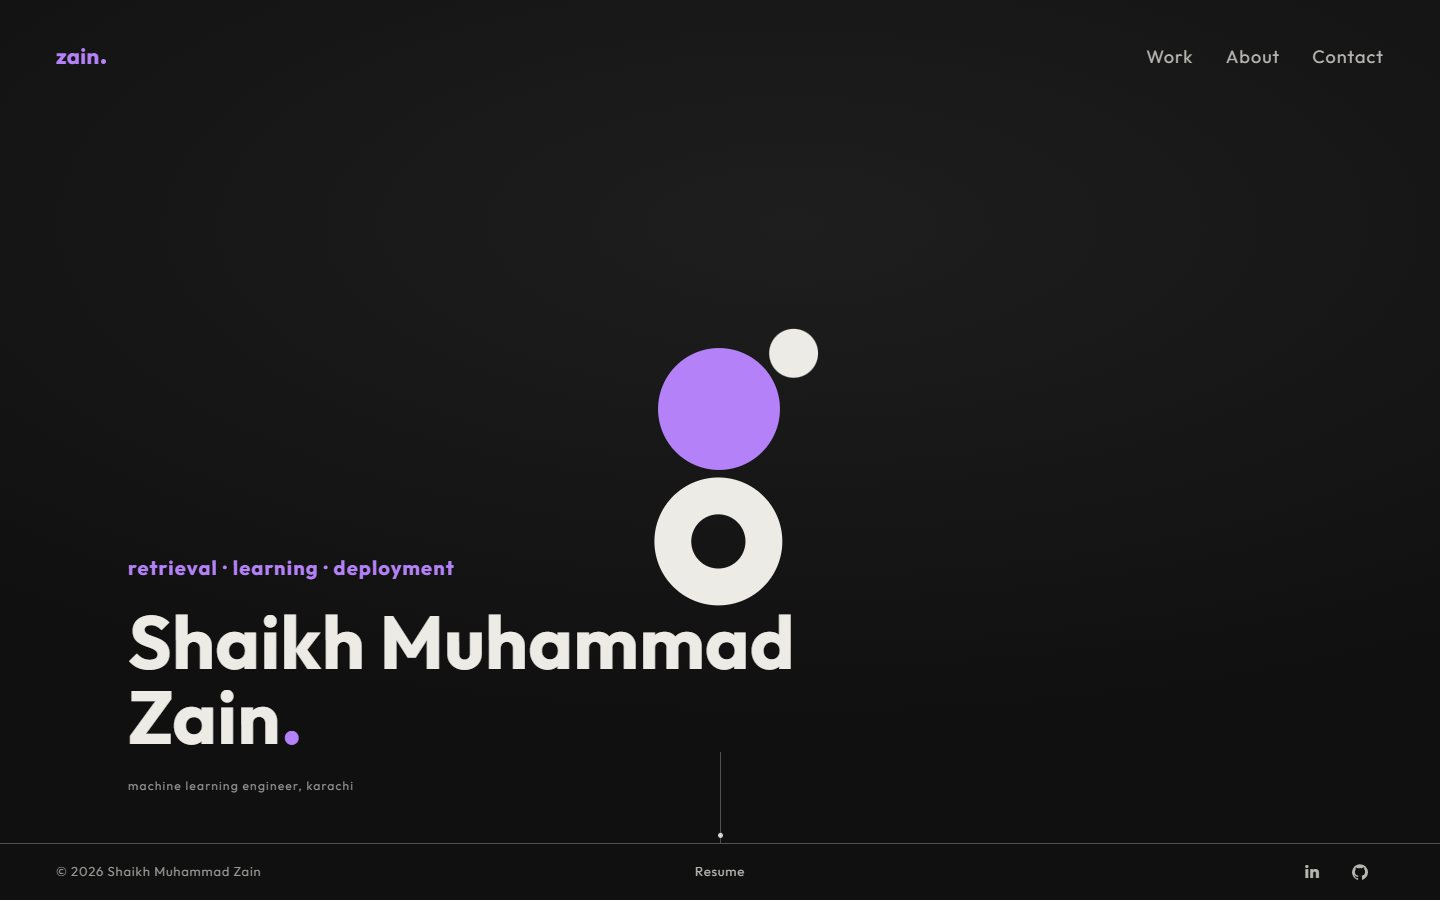
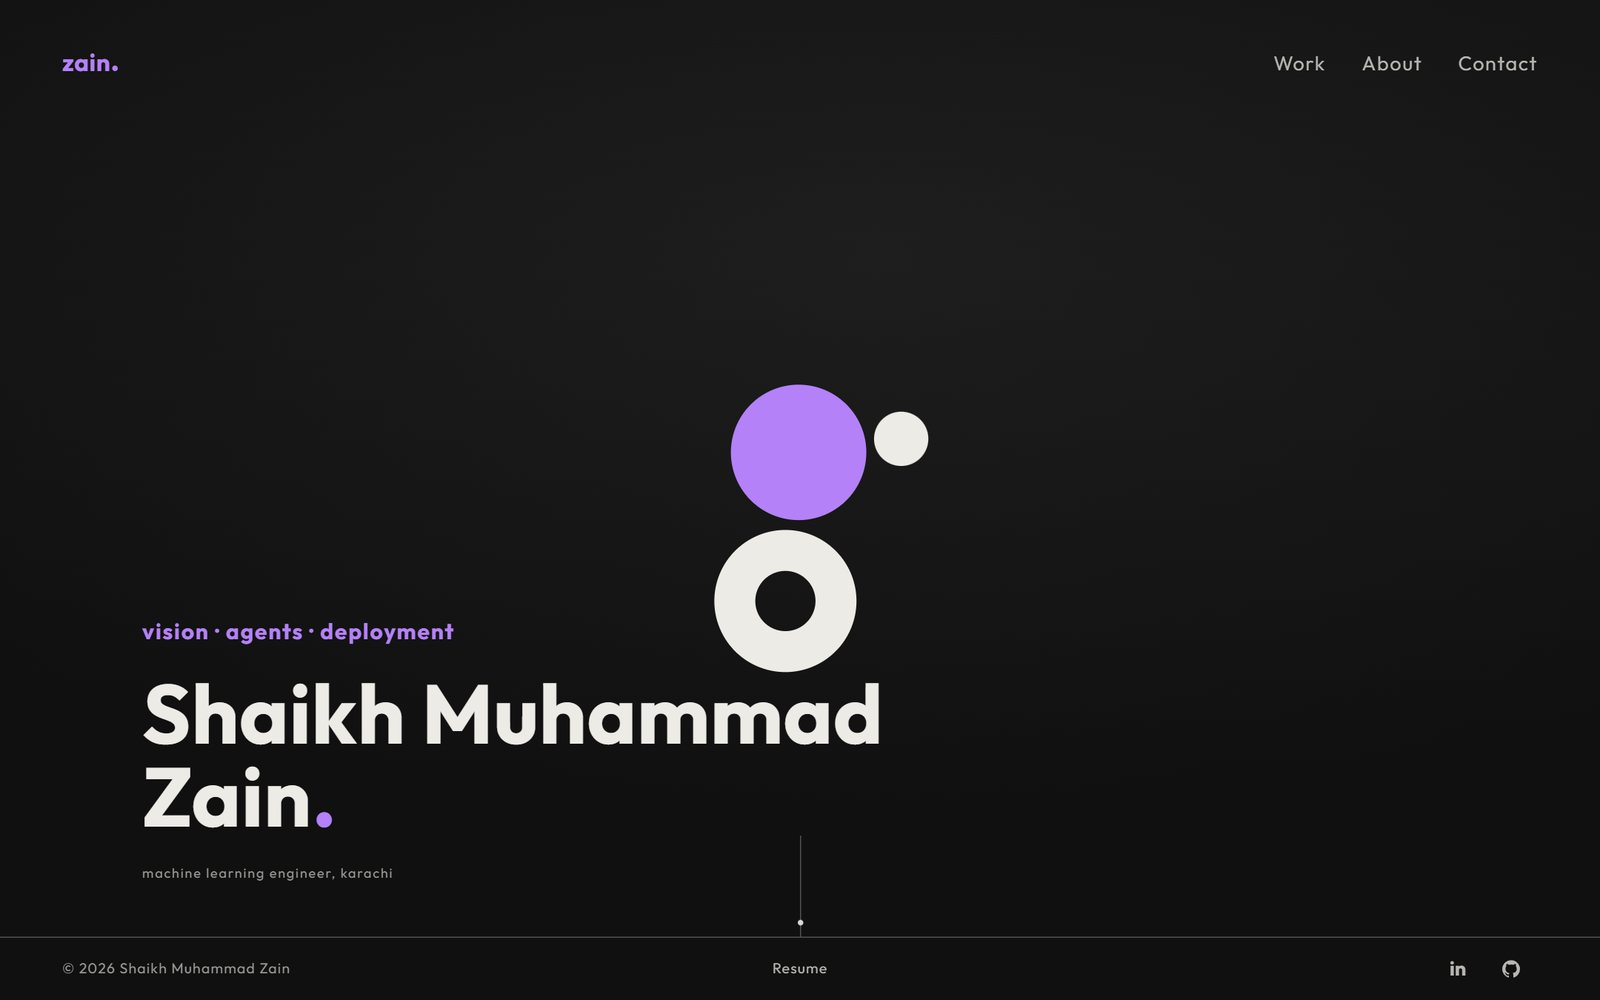
Update README to the current site: ten projects, new screenshots, TechFest headline

diff --git a/README.md b/README.md
@@ -1,18 +1,18 @@
 # Shaikh Muhammad Zain · Portfolio
 
-Personal site of Shaikh Muhammad Zain, a final-year Computer Science (AI) student at NED University, Karachi, working on retrieval systems, supervised learning and the APIs around them.
+Personal site of Shaikh Muhammad Zain, a machine learning engineer in Karachi and final-year Computer Science (AI) student at NED University. The work covers deep learning, computer vision and LLM agent systems, tested on held-out data and shipped with live demos and the numbers.
 
 **Live:** [shaikh-muhammad-zain.vercel.app](https://shaikh-muhammad-zain.vercel.app)
 
-![Hero: the orbiting mark and the name](docs/hero.jpg)
+![Hero: the orbiting mark, the name and "vision · agents · deployment"](docs/hero.jpg)
 
 ## What's on the site
 
 | Section | What it shows |
 |---|---|
-| Hero | The name, a one-line claim and an orbiting mark. Clicking pulls the two satellites into elliptical orbits aimed at the click point, with live orbit guides. On scroll the mark flies to the top left and docks as the logo. |
-| Approach | A purple disc grows out of the hero and fills the screen with a short statement of how I work, next to the Precision@50 result from FlyRank (0.24 → 0.74). |
-| Work | The purple disc shrinks to reveal a 3D sphere of project screenshots that you can drag, hover and click, with a row view that auto-advances. Below it, an index of six projects with results, stack and links to the live demo, code or paper. |
+| Hero | The name, the focus (vision · agents · deployment) and an orbiting mark. Clicking pulls the two satellites into elliptical orbits aimed at the click point, with live orbit guides. On scroll the mark flies to the top left and docks as the logo. |
+| Approach | A purple disc grows out of the hero and fills the screen with a short statement of how I work, next to the TechFest face recognition result: verification error 25.4% → 2.9% once faces are aligned. |
+| Work | The purple disc shrinks to reveal a 3D sphere of project screenshots that you can drag, hover and click, with a row view that auto-advances. Below it, an index of ten projects with results, stack and links to the live demo, code or paper. |
 | Skills | Rings for each skill area with the tools used in each. |
 | Bio | Story, experience, education and certifications, with a pinned index that follows the scroll. |
 | Contact | Email, LinkedIn, GitHub and a resume download. The "Let's talk" ball is tossed into place and opens an email. |
@@ -21,20 +21,26 @@ Personal site of Shaikh Muhammad Zain, a final-year Computer Science (AI) studen
 |---|---|
 | ![Approach section](docs/manifest.jpg) | ![Project sphere](docs/orbit.jpg) |
 
-| Contact | Mobile |
+| Projects | Contact |
 |---|---|
-| ![Contact section](docs/contact.jpg) | <img src="docs/mobile.jpg" alt="Mobile hero" width="260"> |
+| ![Project index](docs/projects.jpg) | ![Contact section](docs/contact.jpg) |
+
+<img src="docs/mobile.jpg" alt="Mobile hero" width="260">
 
 ## Projects featured
 
 | Project | Result | Links |
 |---|---|---|
+| Face recognition, NED CSIT TechFest (runner-up of 50 teams) | 97.1% accuracy, 2.9% EER on 40 held-out South Asian people; 25.4% without alignment | |
+| Leash, payment guardrails for AI agents (PayPal AI Hackathon) | Code checks every payment; any Gemini or PayPal failure blocks it | [Live](https://leash-b2xx.onrender.com) · [Code](https://github.com/ZainDev04/leash) |
+| Mimetic initialization, reproduced (ICML 2023) | CIFAR-10 test accuracy 85.13% → 88.87% with mimetic init | [Code](https://github.com/ZainDev04/mimetic-init-vit) |
+| FlyRank ML internship | 18,752 pages from 29 client sites clustered into archetypes; leave-one-client-out ARI 0.909 | [Paper](https://zaindev04.github.io/Flyrank-ML-Internship/) · [Code](https://github.com/ZainDev04/Flyrank-ML-Internship) |
+| Power plant output prediction | KNN R² 0.959, RMSE 3.45 MW on 1,906 held-out hours | [Live](https://ccpp-power-prediction.vercel.app) · [Code](https://github.com/ZainDev04/ccpp-power-prediction) |
 | EduPulse, student performance intelligence | At-risk ROC-AUC 0.742 (CV), math-score R² 0.882 on hold-out | [Live](https://edupulse-ml.vercel.app) · [Code](https://github.com/ZainDev04/edupulse) |
-| FlyRank ML internship | Precision@50 from 0.24 to 0.74; 30k to 79M rows with DuckDB | [Paper](https://zaindev04.github.io/Flyrank-ML-Internship/) · [Code](https://github.com/ZainDev04/Flyrank-ML-Internship) |
 | Semantic search over Git history | Right commit at rank 1 for 20 of 22 questions (dense) vs 17 (BM25) | [Code](https://github.com/ZainDev04/Semantic-Search-Engine-RAG-FAISS) |
-| Nova, rule-based chatbot | 34 intents, five matching tiers, every reply traceable | [Live](https://nova-rule-based-chatbot.vercel.app) · [Code](https://github.com/ZainDev04/Rule-based-chatbot) |
-| Iris species classifier | 96.0% five-fold cross-validated accuracy | [Live](https://iris-knn.vercel.app) · [Code](https://github.com/ZainDev04/iris-classifier) |
-| StepGuard, final year project | Hallucination detection for LangGraph agents, in progress | |
+| Tether, Claude Code on my home PC from my phone | Login bypass found and fixed in my own review; 35 automated tests | [Code](https://github.com/ZainDev04/tether) |
+| StepGuard, final year project | Step-level hallucination detection for LangGraph agents, in progress | |
+| Smart parking reasoning (KRR course project) | 28 rules; Python engine matches SWI-Prolog (105 conclusions each) | [Live](https://smart-parking-krr.vercel.app) · [Code](https://github.com/ZainDev04/smart-parking-krr) |
 
 ## Built with
 
